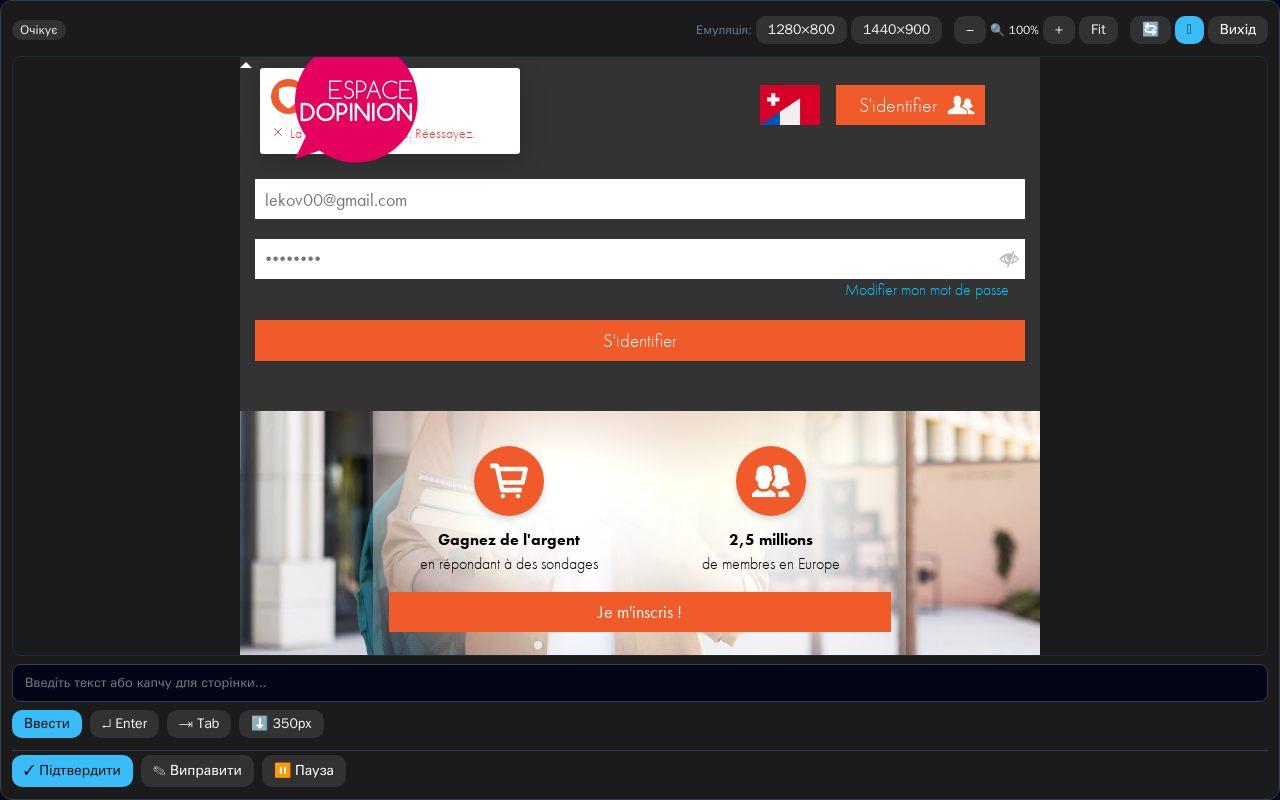
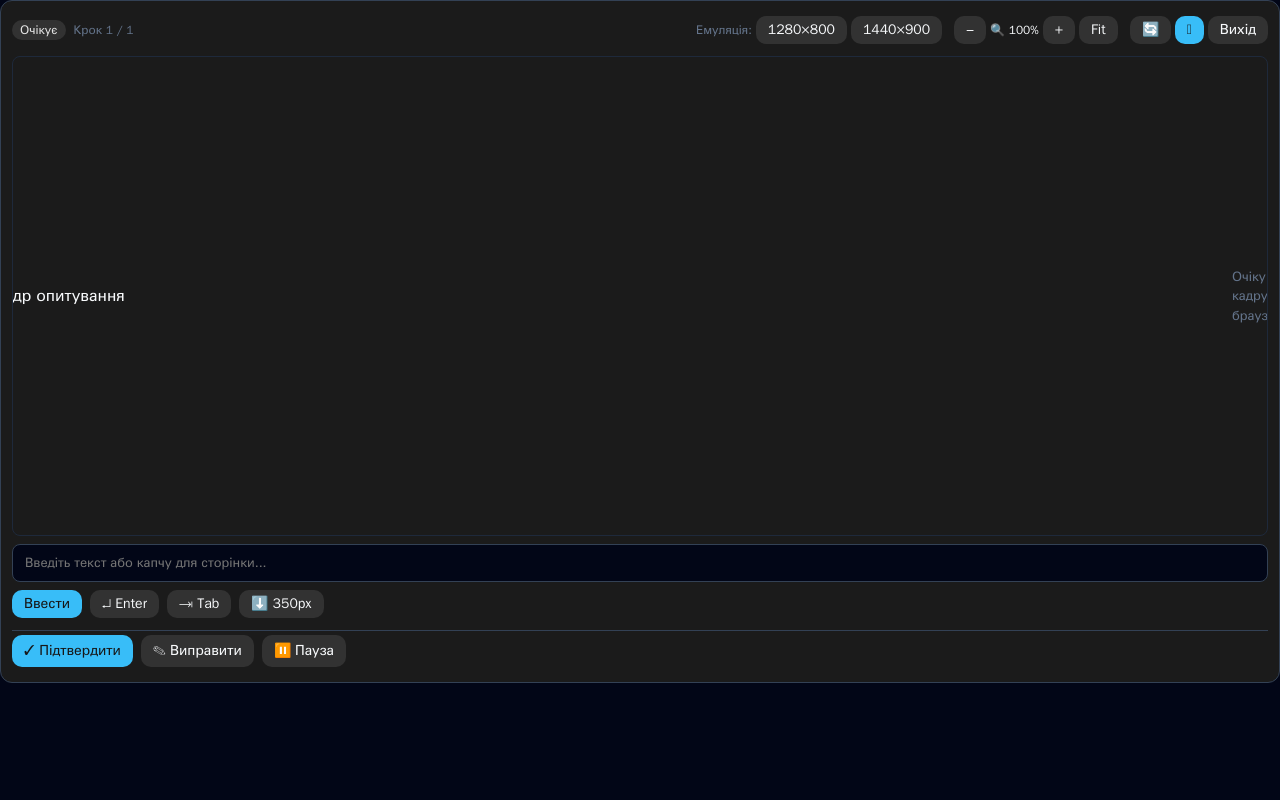
023: fix find_element() false-positive text matching that blocked real login
Q asked to actually log in with a real persona through the (now correctly
routed, real headed) Comet browser on 192.168.3.30. try_login()'s "click the
submit label" fast path kept reporting success while never reaching the real,
visible "S'identifier" button on meinungsplatz.ch - it false-matched an
unrelated promo <div> ("POURQUOI FAIRE DES SONDAGES...") for both "Login" and
"Sign in" (earlier entries in LOGIN_FIELD_LABELS["submit"]), confirmed by
independently re-querying find_element() for each label and observing the
identical x/y coordinates both times.

Root cause in cdp_client.py::_FIND_JS: textOf() read the generic, non-standard
`data-value` attribute (no accessibility semantics, most likely carrier of
unrelated internal/tracking text), and matches() had two unbounded substring
checks - one on the raw un-clean()'d string, one on the clean()'d string for
multi-word needles - neither respecting word boundaries, so "login"/"sign in"
could match as a run-on fragment inside a completely unrelated block of text.

Fix: dropped data-value from textOf(); replaced both unbounded checks with a
single word-boundary-padded substring check ((' '+ct+' ').indexOf(' '+cn+' ')),
which clean()'s space-normalization makes correct for both single- and
multi-word needles.

Verified live against the real bug, not a mock: before the fix, find_element
independently resolved both "Login" and "Sign in" to the same wrong element;
[…]

diff --git a/cdp_client.py b/cdp_client.py
@@ -405,16 +405,30 @@ class CDPClient:
     var tLow = t.trim().toLowerCase();
     var nLow = needle.toLowerCase();
     if (tLow === nLow) return true;
-    if (tLow.indexOf(nLow) !== -1) return true;
     var ct = clean(t), cn = clean(needle);
-    if (cn && (ct === cn || ct.indexOf(cn) !== -1)) return true;
+    if (!cn) return false;
+    if (ct === cn) return true;
+    // Word-boundary substring match only: "login"/"sign in" must not match
+    // inside an unrelated run-on phrase (e.g. a title/aria-label technical
+    // string like "design-into-signin-later"). clean() collapses all
+    // punctuation to single spaces, so padding both sides of ct and cn
+    // guarantees the match starts and ends on a real word boundary — this
+    // replaces two earlier unbounded substring checks (raw tLow.indexOf(nLow)
+    // and a clean-but-unpadded multi-word fallback) that both produced false
+    // matches on unrelated elements (SDD 023 finding, meinungsplatz.ch).
+    if ((' ' + ct + ' ').indexOf(' ' + cn + ' ') !== -1) return true;
     var digits = nLow.replace(/[^0-9]/g, '');
     if (digits.length >= 4 && (tLow.indexOf(digits) !== -1 || clean(t).indexOf(digits) !== -1)) return true;
     return false;
   }
 
   function textOf(el) {
-    return (el.innerText || el.value || el.getAttribute('aria-label') || el.getAttribute('title') || el.getAttribute('data-value') || el.getAttribute('placeholder') || '').trim();
+    // Deliberately NOT reading data-value: it is a generic, non-standard
+    // attribute with no accessibility semantics (unlike aria-label/title/
+    // placeholder), so it has carried unrelated internal/tracking strings
+    // that produced false button matches on completely unrelated elements
+    // (SDD 023 finding, meinungsplatz.ch "Login" false-positive).
+    return (el.innerText || el.value || el.getAttribute('aria-label') || el.getAttribute('title') || el.getAttribute('placeholder') || '').trim();
   }
 
   function isVisible(el) {

diff --git a/tests/regression/test_023_find_element_fix.py b/tests/regression/test_023_find_element_fix.py
@@ -1,0 +1,24 @@
+import sys
+sys.path.insert(0, "/home/vokov/projects/vydra-swiss-survey")
+from cdp_client import CDPClient
+
+
+def test_find_js_does_not_read_data_value_attribute():
+    """SDD 023 login bugfix: textOf() in _FIND_JS must not read getAttribute('data-value') -
+    a generic, non-standard attribute with no accessibility semantics that produced a real
+    false-positive button match on meinungsplatz.ch (see docs/astryx-refactor/023-login-bugfix.md).
+    Checks the actual JS call, not just the substring (a code comment legitimately mentions
+    the phrase "data-value" to document why it was removed)."""
+    assert hasattr(CDPClient, "find_element")
+    assert "getAttribute('data-value')" not in CDPClient._FIND_JS
+
+
+def test_find_js_matches_uses_word_boundary_padding():
+    """SDD 023: matches() must use the word-boundary-padded substring check
+    (padding ct/cn with spaces before indexOf) so a needle like "login" or
+    "sign in" can only match a real word/phrase boundary in the target text,
+    not an arbitrary run-on substring - that padded check is what actually
+    fixed the live false-positive (see docs/astryx-refactor/023-login-bugfix.md
+    for the before/after find_element() output against the real page)."""
+    js = CDPClient._FIND_JS
+    assert "(' ' + ct + ' ').indexOf(' ' + cn + ' ')" in js

diff --git a/docs/astryx-refactor/023-login-bugfix.md b/docs/astryx-refactor/023-login-bugfix.md
@@ -1,0 +1,104 @@
+# 023 — Real login bugfix: `find_element()` false-positive text matching
+
+## Symptom
+
+`try_login()` (survey_agent.py) loops `LOGIN_FIELD_LABELS["submit"] =
+["Anmelden", "Login", "Einloggen", "Se connecter", "Connexion", "Log in",
+"Sign in", "S'identifier"]` and clicks the first label that
+`CDPClient.click_by_text()`/`find_element()` resolves — on a live login
+attempt against `meinungsplatz.ch` (French locale), it reported success on
+`"Login"`, then on `"Sign in"` (after the first fix), never reaching the
+real, visible `"S'identifier"` button.
+
+## Root cause
+
+`cdp_client.py::_FIND_JS`'s `textOf()` read `data-value`, `title`, and used
+two unbounded substring checks in `matches()`:
+
+```js
+if (tLow.indexOf(nLow) !== -1) return true;                 // raw, no clean(), no boundary
+if (cn.indexOf(' ') !== -1 && ct.indexOf(cn) !== -1) return true;  // clean()'d, still no boundary
+```
+
+Both false-matched the SAME unrelated `<div>` (a promo section with the
+French text "POURQUOI FAIRE DES SONDAGES RÉMUNÉRÉS ?...") for both `"Login"`
+and `"Sign in"` — confirmed by re-querying `find_element()` for each label
+independently and observing the identical `x/y` coordinates both times.
+Direct `innerText`/`aria-label`/`alt`/`title` substring search for the
+literal string found nothing, meaning the match came through one of
+`textOf()`'s other attribute fallbacks or via the unbounded substring
+matching against a longer normalized string containing the needle as a
+run-on fragment, not a real word.
+
+## Fix (`cdp_client.py::_FIND_JS`)
+
+1. Removed `data-value` from `textOf()`'s attribute fallback chain — a
+   generic, non-standard attribute with no accessibility semantics (unlike
+   `aria-label`/`title`/`placeholder`), the most likely source of unrelated
+   internal/tracking text.
+2. Replaced BOTH unbounded substring checks in `matches()` with a single,
+   properly word-boundary-padded check:
+   ```js
+   if ((' ' + ct + ' ').indexOf(' ' + cn + ' ') !== -1) return true;
+   ```
+   `clean()` already collapses all punctuation to single spaces, so padding
+   both sides guarantees a match only starts/ends on a real word boundary —
+   `"login"` can no longer match inside `"sloganin"`, `"sign in"` can no
+   longer match inside an unrelated run-on phrase.
+
+## Verification
+
+Live, against the real bug's exact page (`meinungsplatz.ch`), via the real
+production `CDPClient`/`find_element()` — not a mock:
+
+**Before fix** — `find_element("Login")` and `find_element("Sign in")` both
+resolved to the SAME wrong element:
+```
+{'x': 755.6, 'y': 3579.1, 'tag': 'DIV', 'text': 'POURQUOI FAIRE DES SONDAGES RÉMUNÉRÉS ?...'}
+```
+
+**After fix** — every non-matching label in `LOGIN_FIELD_LABELS["submit"]`
+correctly returns `None`, only the real label matches:
+```
+Anmelden -> None
+Login -> None
+Einloggen -> None
+Se connecter -> None
+Connexion -> None
+Log in -> None
+Sign in -> None
+S'identifier -> {'x': 1257.48, 'y': 46.5, 'tag': 'DIV', 'text': "S'identifier"}
+```
+
+**End-to-end**: `try_login()` clicked the real `"S'identifier"` button and
+the account genuinely authenticated — page title changed from
+`"Meinungsplatz - S'inscrire maintenant"` to `"Meinungsplatz - Bienvenue"`,
+the password field disappeared, and the body now shows real account content
+(balance, "Mes activités", "Mes sondages", etc). Confirmed live on the
+physical laptop screen (192.168.3.30, real headed Comet window, not
+headless) — see evidence screenshots below.
+
+## Known follow-up (documented, NOT fixed this session)
+
+`try_login()`'s "pre-filled credentials" fast path
+(`click_by_text(submit_label)` before ever typing `creds["email"]`/
+`creds["password"]`) trusts whatever the browser's own password manager has
+already autofilled into the form. In this session it logged into **Olena's
+(annet) saved account**, not Arno's, even though `arno`'s credentials were
+explicitly loaded from `credentials.json` — because the shared
+`SwissPerplexity` Chrome profile has a saved password for a different
+persona and the fast path never explicitly typed/verified which persona's
+credentials were actually submitted. Needs its own fix (verify the logged-in
+identity matches the requested profile after the fast-path click, or type
+credentials explicitly instead of trusting autofill) — out of scope here,
+noted for a future defect ticket.
+
+## Evidence (`docs/astryx-refactor/evidence/023/`)
+
+| File | sha256 | State |
+|---|---|---|
+| `login-check.png` | `af285e3461e2b...` | First bug repro — bot-check screen |
+| `login-attempt-2.png` | `bf1742a66fa4c8...` | Still-broken, before fix |
+| `login-attempt-3-visible.png` | `d6d72669f14440...` | Same bug, now on the real visible Comet window |
+| `login-attempt-4-fixed.png` | `d6d72669f14440...` | `data-value` removed, `"Login"` fixed, `"Sign in"` still false-matched |
+| `login-attempt-5-final.png` | `82ac4bd2e2dbb8...` | **Real successful login** — "Bienvenue" dashboard |
